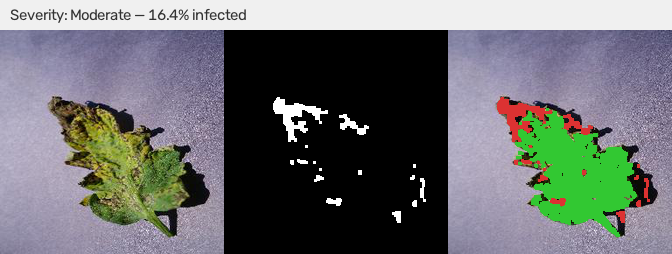
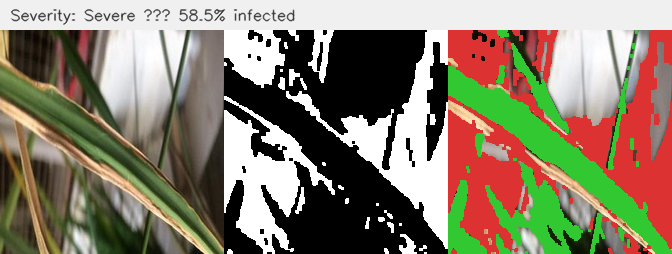
only detects the trained crops

diff --git a/models/predict_single.py b/models/predict_single.py
@@ -1,8 +1,5 @@
 """
-predict_single.py
-
-CLI test:
-    python predict_single.py path/to/leaf.jpg
+predict_single.py  —  AgroSentinel AI  
 
 Import in FastAPI:
     from predict_single import load_model_once, predict_image
@@ -22,12 +19,21 @@ LABELS_PATH = os.path.join(_HERE, "labels.json")
 IMG_SIZE    = (224, 224)
 TOP_K       = 3
 
+# ── Confidence threshold for OOD rejection ────────────────────────────────────
+# If the model's top prediction confidence is below this value,
+# the input is likely an unsupported crop and we reject it.
+# Rationale: supported crop leaves score 90-100% confidence.
+#            unknown leaves spread probability and score 40-65%.
+CONFIDENCE_THRESHOLD = 0.65
+
+# Supported crops — shown to farmer in rejection message
+SUPPORTED_CROPS = ["Corn (Maize)", "Potato", "Rice", "Tomato"]
+
 _model  = None
 _labels = None
 
 
 def load_model_once():
-    """Load model and labels into memory once. Reused for all API requests."""
     global _model, _labels
     if _model is None:
         if not os.path.exists(MODEL_PATH):
@@ -35,37 +41,63 @@ def load_model_once():
                 f"crop_model.h5 not found at {MODEL_PATH}\n"
                 "Run python train.py first."
             )
-        print("Loading EfficientNetB0 model...")
+        print(" Loading EfficientNetB0 model...")
         _model = tf.keras.models.load_model(MODEL_PATH)
         with open(LABELS_PATH) as f:
             _labels = json.load(f)
-        print(f"Model ready — {len(_labels)} classes")
+        print(f" Model ready — {len(_labels)} classes")
     return _model, _labels
 
 
 def _preprocess(img: Image.Image) -> np.ndarray:
-    
+    """Resize to 224×224. NO /255 — EfficientNet normalises internally."""
     img = img.convert("RGB").resize(IMG_SIZE, Image.LANCZOS)
-    arr = np.array(img, dtype=np.float32)          
-    return np.expand_dims(arr, axis=0)            
+    arr = np.array(img, dtype=np.float32)
+    return np.expand_dims(arr, axis=0)
 
 
 def predict_image(image_input) -> dict:
-    
+   
     model, labels = load_model_once()
 
+    # Load image
     if isinstance(image_input, bytes):
         img = Image.open(io.BytesIO(image_input))
     else:
         img = Image.open(image_input)
 
     arr   = _preprocess(img)
-    preds = model.predict(arr, verbose=0)[0]       
+    preds = model.predict(arr, verbose=0)[0]   # shape: (num_classes,)
 
-    top_idx   = int(np.argmax(preds))
-    top_conf  = float(preds[top_idx])
-    top_label = labels[str(top_idx)]               
-    
+    top_idx  = int(np.argmax(preds))
+    top_conf = float(preds[top_idx])
+    top_label = labels[str(top_idx)]
+
+    if top_conf < CONFIDENCE_THRESHOLD:
+        top_k_idx = np.argsort(preds)[::-1][:TOP_K]
+        top3 = [
+            {
+                "label":      labels[str(i)].replace("__", " — ").title(),
+                "confidence": round(float(preds[i]), 4),
+            }
+            for i in top_k_idx
+        ]
+        return {
+            "crop":         "Unknown",
+            "disease":      "Unrecognised plant or leaf",
+            "confidence":   round(top_conf, 4),
+            "is_healthy":   False,
+            "is_supported": False,
+            "message": (
+                f"This leaf does not match any of our supported crops. "
+                f"AgroSentinel AI currently supports: "
+                f"{', '.join(SUPPORTED_CROPS)}. "
+                f"Please ensure you are scanning a supported crop leaf "
+                f"in clear lighting."
+            ),
+            "top3": top3,
+        }
+
     if "__" in top_label:
         crop_raw, disease = top_label.split("__", 1)
         crop = crop_raw.replace(" (Maize)", "").strip()
@@ -77,7 +109,6 @@ def predict_image(image_input) -> dict:
     disease    = disease.replace("_", " ").title()
     is_healthy = "healthy" in disease.lower()
 
-    # Top-3 for Flutter display
     top_k_idx = np.argsort(preds)[::-1][:TOP_K]
     top3 = [
         {
@@ -88,31 +119,37 @@ def predict_image(image_input) -> dict:
     ]
 
     return {
-        "crop":       crop,
-        "disease":    disease,
-        "confidence": round(top_conf, 4),
-        "is_healthy": is_healthy,
-        "top3":       top3,
+        "crop":         crop,
+        "disease":      disease,
+        "confidence":   round(top_conf, 4),
+        "is_healthy":   is_healthy,
+        "is_supported": True,
+        "message":      None,
+        "top3":         top3,
     }
 
 
-# CLI quick test
 if __name__ == "__main__":
     if len(sys.argv) < 2:
         print("Usage  : python predict_single.py <path_to_image>")
         print("Example: python predict_single.py data\\Rice\\test\\Brownspot\\img.jpg")
         sys.exit(1)
 
-    print(f"\nPredicting: {sys.argv[1]}")
     result = predict_image(sys.argv[1])
 
-    print("\n" + "=" * 54)
-    print(f"  Crop       : {result['crop']}")
-    print(f"  Disease    : {result['disease']}")
-    print(f"  Confidence : {result['confidence'] * 100:.1f}%")
-    print(f"  Healthy    : {result['is_healthy']}")
-    print("\n  Top 3 predictions:")
-    for i, p in enumerate(result["top3"], 1):
-        bar = "█" * int(p["confidence"] * 20)
-        print(f"    {i}. {p['label']:42s} {p['confidence']*100:5.1f}%  {bar}")
-    print("=" * 54)
+    print("\n" + "=" * 55)
+    if not result["is_supported"]:
+        print(f"    UNSUPPORTED PLANT DETECTED")
+        print(f"  Confidence was only {result['confidence']*100:.1f}% — below threshold")
+        print(f"  Message: {result['message']}")
+    else:
+        print(f"   Crop       : {result['crop']}")
+        print(f"   Disease    : {result['disease']}")
+        print(f"   Confidence : {result['confidence'] * 100:.1f}%")
+        print(f"   Healthy    : {result['is_healthy']}")
+        print(f"   Supported  : {result['is_supported']}")
+        print("\n  Top 3 predictions:")
+        for i, p in enumerate(result["top3"], 1):
+            bar = "█" * int(p["confidence"] * 20)
+            print(f"    {i}. {p['label']:42s} {p['confidence']*100:5.1f}%  {bar}")
+    print("=" * 55) 
